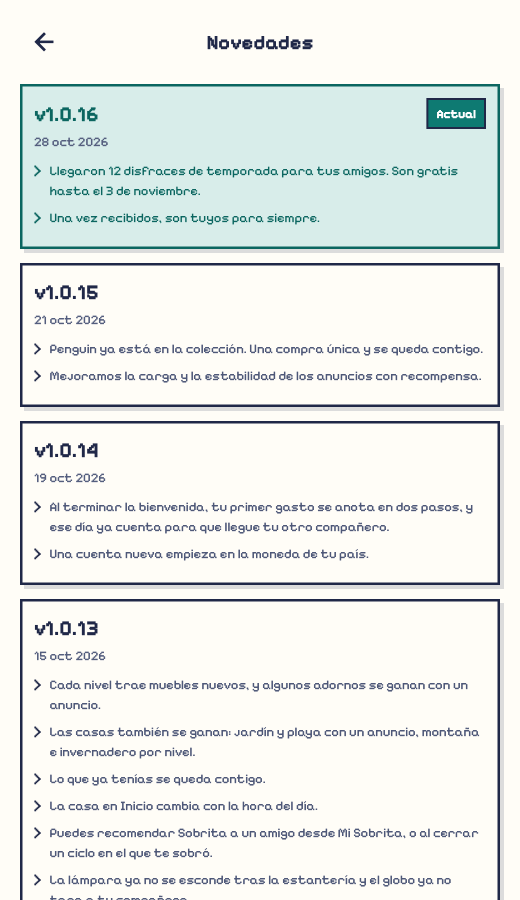
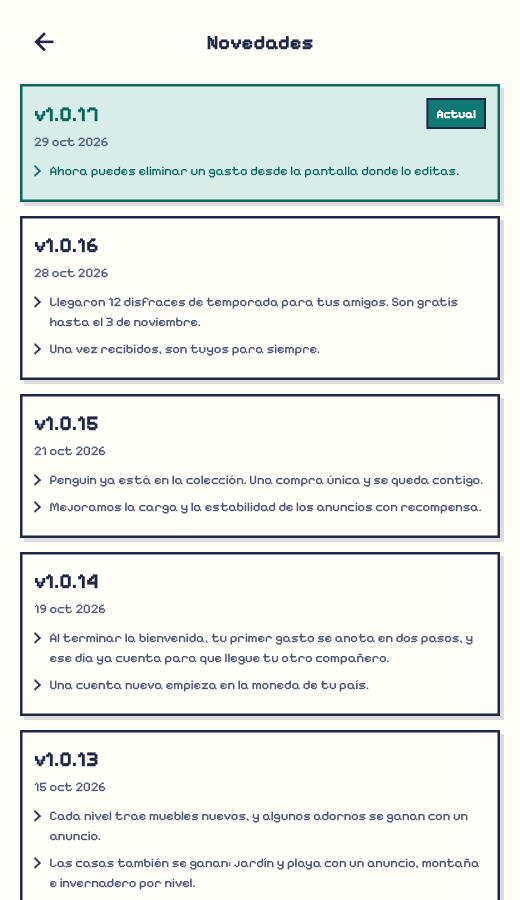
chore: move to 1.0.17+28 with a note for deleting from the edit sheet
Delete from the expense edit sheet is something users will notice, and a
Play review asked for it, so it ships under its own version name. The
note is one line in all seven languages. 1.0.4 drops off to keep five
versions, and the notes golden is redrawn.

The large-text gift card test now reads the note that brought the gift
instead of the newest one, since 1.0.17 carries no gift of its own. The
daily gift card already follows that note on any version, so 1.0.16's
costumes keep their card through 11/3.

The Play "What's new" text is in design/store/play-whats-new-1.0.17.md.

Changed region(s): [[0.0308, 0.1867, 0.9846, 1.0], [0.1538, 0.1244, 0.1846, 0.1556]]

diff --git a/lib/data/release_notes.dart b/lib/data/release_notes.dart
@@ -42,6 +42,11 @@ class ReleaseNote {
 /// nothing, which is what [ReleaseAnnouncements] reads a missing note as.
 final releaseNotes = <ReleaseNote>[
   ReleaseNote(
+    version: '1.0.17',
+    releasedOn: DateTime(2026, 10, 29),
+    lines: [(l10n) => l10n.releaseNote1017Delete],
+  ),
+  ReleaseNote(
     version: '1.0.16',
     releasedOn: DateTime(2026, 10, 28),
     seasonalGift: true,
@@ -76,17 +81,6 @@ final releaseNotes = <ReleaseNote>[
       (l10n) => l10n.releaseNote1013Home,
       (l10n) => l10n.releaseNote1013Share,
       (l10n) => l10n.releaseNote1013Fixes,
-    ],
-  ),
-  ReleaseNote(
-    version: '1.0.4',
-    releasedOn: DateTime(2026, 9, 28),
-    lines: [
-      (l10n) => l10n.releaseNote104Fixed,
-      (l10n) => l10n.releaseNote104Decor,
-      (l10n) => l10n.releaseNote104Names,
-      (l10n) => l10n.releaseNote104Widget,
-      (l10n) => l10n.releaseNote104Languages,
     ],
   ),
 ];

diff --git a/test/release_announcement_test.dart b/test/release_announcement_test.dart
@@ -405,7 +405,11 @@ void main() {
             'sobra_notes_announced_version': '1.0.15',
             'sobra_notes_read_version': '1.0.15',
           }),
-          versionLoader: _reports(releaseNotes.first.version),
+          // The note that brought the gift, not the newest: a later release
+          // with no gift of its own would leave this card without the button.
+          versionLoader: _reports(
+            releaseNotes.firstWhere((note) => note.seasonalGift).version,
+          ),
         );
         await announcements.start();
         await tester.pumpWidget(

diff --git a/design/store/play-whats-new-1.0.17.md b/design/store/play-whats-new-1.0.17.md
@@ -1,0 +1,48 @@
+# Play "What's new" — 1.0.17 (build 28)
+
+Paste the block below into Play Console → Release → Release notes. Play
+reads the language tags itself; each entry stays under its 500-character
+limit. The in-app note (`lib/data/release_notes.dart`) says the same thing.
+
+```
+<es-419>
+• Ahora puedes eliminar un gasto desde la pantalla donde lo editas.
+</es-419>
+<en-US>
+• You can now delete an expense from the screen where you edit it.
+</en-US>
+<pt-BR>
+• Agora dá para apagar um gasto na mesma tela em que você o edita.
+</pt-BR>
+<ko-KR>
+• 지출을 수정하는 화면에서도 바로 삭제할 수 있어요.
+</ko-KR>
+<ja-JP>
+• 支出の編集画面からも、そのまま削除できるようになりました。
+</ja-JP>
+<de-DE>
+• Du kannst eine Ausgabe jetzt direkt beim Bearbeiten löschen.
+</de-DE>
+<fr-FR>
+• Tu peux maintenant supprimer une dépense depuis son écran de modification.
+</fr-FR>
+```
+
+## What this release contains
+
+User-facing, and in the notes:
+
+- Tapping an expense in Movimientos opens its edit sheet, which now has an
+  **Eliminar** button under **Guardar cambios**. It deletes through the same
+  path as the row's ⋮ menu, with the same undo. Prompted by a Play review
+  (pt, 10/28) that read the ⋮-only delete as a bug.
+- An expense made by a cash count shows why it cannot be deleted in that
+  spot, instead of a button that is silently missing.
+
+Shipped too, but not announced:
+
+- The delete notice replaces whatever snack bar is up, so its undo no longer
+  waits unseen behind the XP notice from the expense just recorded.
+
+The 1.0.16 costume gift keeps its daily card through 11/3 on this version:
+that card follows the note that brought the gift, not the running version.
